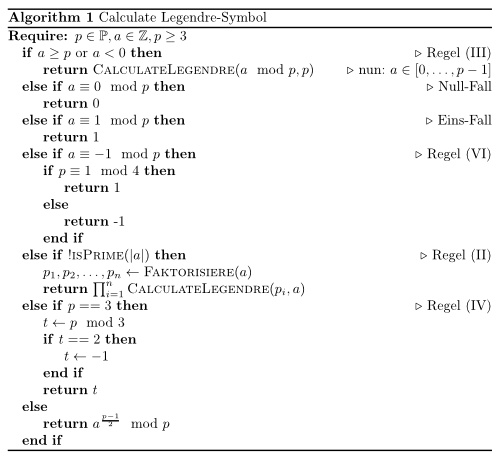
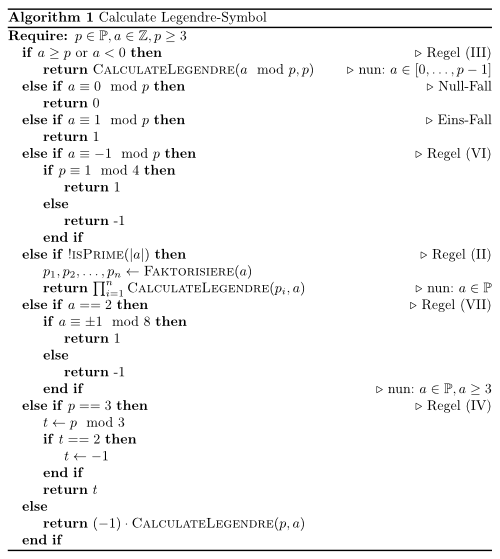
Removed potenzation

diff --git a/source-code/Pseudocode/Calculate-Legendre/Calculate-Legendre.tex b/source-code/Pseudocode/Calculate-Legendre/Calculate-Legendre.tex
@@ -40,7 +40,13 @@
 				\EndIf
 			\ElsIf{!$\Call{isPrime}{|a|}$} \Comment{Regel (II)}
 				\State $p_1, p_2, \dots, p_n \gets \Call{Faktorisiere}{a}$
-				\State \Return $\prod_{i=1}^n \Call{CalculateLegendre}{p_i, a}$
+				\State \Return $\prod_{i=1}^n \Call{CalculateLegendre}{p_i, a}$ \Comment{nun: $a \in \mathbb{P}$}
+			\ElsIf{$a == 2$} \Comment{Regel (VII)}
+				\If{$a \equiv \pm 1 \mod 8$}
+					\State \Return 1
+				\Else
+					\State \Return -1
+				\EndIf	\Comment{nun: $a \in \mathbb{P}, a \geq 3$}
 			\ElsIf{$p == 3$} \Comment{Regel (IV)}
 				\State $t \gets p \mod 3$
 				\If{$t == 2$}
@@ -48,7 +54,7 @@
 				\EndIf
 				\State \Return $t$
 			\Else
-				\State \Return $a^\frac{p-1}{2} \mod p$
+				\State \Return $(-1) \cdot \Call{CalculateLegendre}{p, a}$
 			\EndIf
         \end{algorithmic}
     \caption{Calculate Legendre-Symbol}
